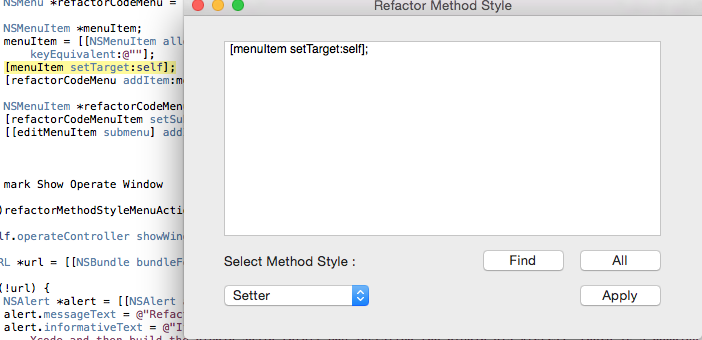
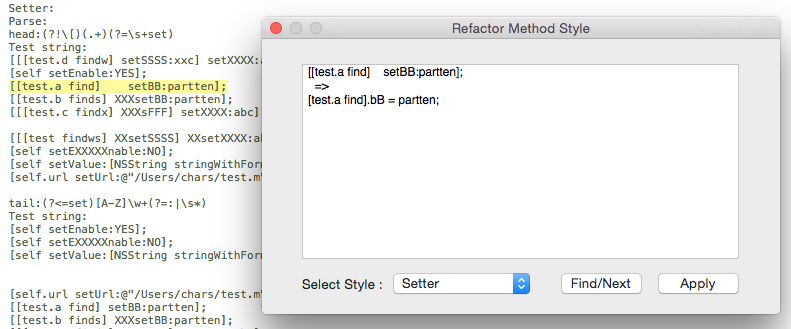
fix replace func

diff --git a/RefactorCodePlugin/Tool/DZOperateCharacter.m b/RefactorCodePlugin/Tool/DZOperateCharacter.m
@@ -64,7 +64,7 @@ NSUInteger currentIdx = 0;
         return NULL;
     }
     
-    NSRange verify = {0};
+    NSArray *verify = nil;
     NSTextCheckingResult *result = nil;
     do {
         result = [regular firstMatchInString:content options:0 range:NSMakeRange(currentIdx, content.length - currentIdx)];
@@ -76,11 +76,11 @@ NSUInteger currentIdx = 0;
         DZLog(@"%@ %@", NSStringFromRange(result.range), [content substringWithRange:result.range]);
         
         currentIdx = result.range.location + result.range.length;
-        verify = [[content substringWithRange:result.range] rangeOfString:@"forKey" options:NSCaseInsensitiveSearch];
+        verify = [self findAllSpecityStringWithContent:[content substringWithRange:result.range] pattern:@"(?<=for)(.+)(\\:)"];
         
         ret.resultString = [content substringWithRange:result.range];
         ret.resultRange = result.range;
-    } while (verify.length > 0);
+    } while (verify.count > 0);
     
     return ret;
 }
@@ -90,89 +90,18 @@ NSUInteger currentIdx = 0;
     currentIdx = 0;
 }
 
-//+ (DZResults *)createSetterMethodReplaceStringWithSpecityString:(NSString *)specity
-//{
-//    DZResults *ret = [[DZResults alloc] init];
-//    NSError *error = nil;
-//    
-//    NSString *headerPattern = [[NSString alloc] initWithFormat:@"%@", @"([^\\[])(.+)(?=\\s+set)"];
-//    //NSString *headerPattern = [[NSString alloc] initWithFormat:@"%@", @"(\\w+\\.{0,1}\\w+)(?=\\s+set)"];
-//    NSString *valuePattern =  [[NSString alloc] initWithFormat:@"%@", @"(?<=set)(\\w+)(?=:)"];
-//    //NSString *tailPattern = [[NSString alloc] initWithFormat:@"%@", @"(?<=\\:)(\\w+)"];
-//    NSString *tailPattern = [[NSString alloc] initWithFormat:@"%@", @"(?<=\\:)(.+)(?=\\])"];
-//    
-//    //According to the regular expression，set up Objective-C rules
-//    NSRegularExpression *headerRegular = [[NSRegularExpression alloc] initWithPattern:headerPattern options:NSRegularExpressionAllowCommentsAndWhitespace error:&error];
-//    if (error) {
-//        DZLog(@"create replace string header regular error:%@",error);
-//        error = nil;
-//    }
-//    NSTextCheckingResult *header = [headerRegular firstMatchInString:specity options:0 range:NSMakeRange(0, specity.length)];
-//    if (!header) {
-//        DZLog(@"createReplaceStringWithSpecityString Header Error!");
-//        return NULL;
-//    }
-//    
-//    NSRegularExpression *valueRegular = [[NSRegularExpression alloc] initWithPattern:valuePattern options:NSRegularExpressionAllowCommentsAndWhitespace error:&error];
-//    if (error) {
-//        DZLog(@"create replace string value regular error:%@",error);
-//        error = nil;
-//    }
-//    NSTextCheckingResult *value = [valueRegular firstMatchInString:specity options:0 range:NSMakeRange(0, specity.length)];
-//    if (!value) {
-//        DZLog(@"createReplaceStringWithSpecityString Header Error!");
-//        return NULL;
-//    }
-//    
-//    NSRegularExpression *tailRegular = [[NSRegularExpression alloc] initWithPattern:tailPattern options:NSRegularExpressionAllowCommentsAndWhitespace error:&error];
-//    if (error) {
-//        DZLog(@"create replace string tail regular error:%@",error);
-//    }
-//    NSTextCheckingResult *tail = [tailRegular firstMatchInString:specity options:0 range:NSMakeRange(0, specity.length)];
-//    if (!tail) {
-//        DZLog(@"createReplaceStringWithSpecityString Tail Error!");
-//        return NULL;
-//    }
-//       
-//    ret.resultString = [[NSString alloc] initWithFormat:@"%@.%@ = %@;", [specity substringWithRange:header.range], [[specity substringWithRange:value.range] lowercaseString], [specity substringWithRange:tail.range]];
-//    
-//    return ret;
-//}
-
 + (DZResults *)createSetterMethodReplaceStringWithSpecityString:(NSString *)specity
 {
     DZResults *ret = [[DZResults alloc] init];
     
-    NSString *header = [self createSetterMethodHeaderReplaceStringWithSpecityString:specity];
+    NSArray *header = [self createSetterMethodHeaderReplaceStringWithSpecityString:specity];
     NSString *value = [self createSetterMethodValueReplaceStringWithSpecityString:specity];
     NSString *tail = [self createSetterMethodTailReplaceStringWithSpecityString:specity];
+    NSString *change = [[NSString alloc] initWithFormat:@"%@%@", [[value substringToIndex:1] lowercaseString], [value substringWithRange:NSMakeRange(1, value.length - 1)]];
     
-    ret.resultString = [[NSString alloc] initWithFormat:@"%@.%@ = %@;", header, [value lowercaseString], tail];
+    ret.resultString = [[NSString alloc] initWithFormat:@"%@.%@ = %@;", (NSString *)[header lastObject], change, tail];
     
     return ret;
-}
-
-+ (NSString *)createSetterMethodHeaderReplaceStringWithSpecityString:(NSString *)specity
-{
-    NSError *error = nil;
-    NSString *headerPattern = [[NSString alloc] initWithFormat:@"%@", @"([^\\[])(.+)(?=\\s+set)"];
-    //NSString *headerPattern = [[NSString alloc] initWithFormat:@"%@", @"(\\w+\\.{0,1}\\w+)(?=\\s+set)"];
-    
-    //According to the regular expression，set up Objective-C rules
-    NSRegularExpression *headerRegular = [[NSRegularExpression alloc] initWithPattern:headerPattern options:NSRegularExpressionAllowCommentsAndWhitespace error:&error];
-    if (error) {
-        DZLog(@"create replace string header regular error:%@",error);
-        error = nil;
-    }
-    NSTextCheckingResult *header = [headerRegular firstMatchInString:specity options:0 range:NSMakeRange(0, specity.length)];
-    if (!header) {
-        DZLog(@"createSetterMethodHeaderReplaceStringWithSpecityString Header Error!");
-        return NULL;
-    }
-    
-    NSString *headerReplace = [[NSString alloc] initWithFormat:@"%@", [specity substringWithRange:header.range]];
-    
-    return headerReplace;
 }
 
 + (NSString *)createSetterMethodValueReplaceStringWithSpecityString:(NSString *)specity
@@ -184,7 +113,6 @@ NSUInteger currentIdx = 0;
     NSRegularExpression *valueRegular = [[NSRegularExpression alloc] initWithPattern:valuePattern options:NSRegularExpressionAllowCommentsAndWhitespace error:&error];
     if (error) {
         DZLog(@"create replace string value regular error:%@",error);
-        error = nil;
     }
     NSTextCheckingResult *value = [valueRegular firstMatchInString:specity options:0 range:NSMakeRange(0, specity.length)];
     if (!value) {
@@ -206,7 +134,6 @@ NSUInteger currentIdx = 0;
     NSRegularExpression *tailRegular = [[NSRegularExpression alloc] initWithPattern:tailPattern options:NSRegularExpressionAllowCommentsAndWhitespace error:&error];
     if (error) {
         DZLog(@"create replace string tail regular error:%@",error);
-        error = nil;
     }
     NSTextCheckingResult *tail = [tailRegular firstMatchInString:specity options:0 range:NSMakeRange(0, specity.length)];
     if (!tail) {
@@ -217,6 +144,50 @@ NSUInteger currentIdx = 0;
     NSString *tailReplace = [[NSString alloc] initWithFormat:@"%@", [specity substringWithRange:tail.range]];
     
     return tailReplace;
+}
+
++ (NSArray *)createSetterMethodHeaderReplaceStringWithSpecityString:(NSString *)src
+{
+    NSMutableArray *arrayM = [NSMutableArray array];
+    NSArray *brace = nil; //大括号
+    NSArray *bracket = nil; //中括号
+    NSArray *parenthesis = nil; //小括号
+    NSArray *setter = [self findAllSpecityStringWithContent:src pattern:@"\\s*set"];
+    
+    brace = [self findAllSpecityStringWithContent:src pattern:@"\\{"];
+    bracket = [self findAllSpecityStringWithContent:src pattern:@"\\["];
+    parenthesis = [self findAllSpecityStringWithContent:src pattern:@"\\("];
+    
+    for (DZResults *result in setter) {
+
+        NSString *currentSrc = [src substringWithRange:NSMakeRange(0, result.resultRange.location)];
+        if (bracket.count) {
+            NSArray *tmp = [self findAllSpecityStringWithContent:currentSrc pattern:@"\\]"];
+            NSUInteger i = 0;
+            if (tmp.count) {
+                i = bracket.count - tmp.count;
+            }
+            DZResults *currentResult = (DZResults *)bracket[i];
+            DZResults *currentFindResult = (DZResults *)[tmp lastObject];
+            NSUInteger start = currentResult.resultRange.location + currentResult.resultRange.length;
+            NSUInteger length = currentSrc.length - start;
+            if (currentFindResult) {
+                start = currentResult.resultRange.location;
+                length = currentFindResult.resultRange.location + currentFindResult.resultRange.length - start;
+            }
+            NSString *header = [currentSrc substringWithRange:NSMakeRange(start, length)];
+            [arrayM addObject:header];
+        } else if (parenthesis.count) {
+            
+        } else if (brace.count) {
+            
+        } else {
+            DZLog(@"Bracket Operate Error!");
+        }
+
+    }
+
+    return arrayM;
 }
 
 @end

diff --git a/RefactorCodePlugin/Controller/DZOperateController.m b/RefactorCodePlugin/Controller/DZOperateController.m
@@ -20,15 +20,16 @@ static NSString *DZNSDictionaryMethodFindRegexPattern = @"(.+)(?<=dictionary)\\w
  Parse:
  head:(?!\[)(.+)(?=\s+set)
  Test string:
+ [[[test.d findw] setSSSS:xxc] setXXXX:abce];
  [self setEnable:YES];
- [self setEXXXXXnable:NO];
- [self setValue:[NSString stringWithFormat:@"%@", @"ssssss"] forKey:@"ddd"];
- [self.url setUrl:@"/Users/chars/test.m"];
  [[test.a find]    setBB:partten];
  [[test.b finds] XXXsetBB:partten];
  [[[test.c findx] XXXsFFF] setXXXX:abc];
- [[[test.d findw] setSSSS] setXXXX:abce];
+ 
  [[[test findws] XXsetSSSS] XXsetXXXX:abcd];
+ [self setEXXXXXnable:NO];
+ [self setValue:[NSString stringWithFormat:@"%@", @"ssssss"] forKey:@"ddd"];
+ [self.url setUrl:@"/Users/chars/test.m"];
  
  tail:(?<=set)[A-Z]\w+(?=:|\s*)
  Test string:
@@ -41,7 +42,7 @@ static NSString *DZNSDictionaryMethodFindRegexPattern = @"(.+)(?<=dictionary)\\w
  [[test.a find] setBB:partten];
  [[test.b finds] XXXsetBB:partten];
  [[[test.c findx] XXXsFFF] setXXXX:abc];
- [[[test.d findw] setSSSS] setXXXX:abce];
+ [[[test.d findw] setSSSS:abx] setXXXX:abce];
  [[[test findws] XXsetSSSS] XXsetXXXX:abcd];
  [self setString:[NSString stringWithFormat:@"%@", @"ssssss"]]; 
  
@@ -128,29 +129,6 @@ static NSString *DZNSDictionaryMethodFindRegexPattern = @"(.+)(?<=dictionary)\\w
 {
     [[NSUserDefaults standardUserDefaults] setObject:sender.selectedItem.representedObject forKey:DZDefaultsKeyMethodStyle];
     [DZOperateCharacter zeroCurrentIdx];
-}
-
-#pragma mark All Button Action
-
-- (IBAction)allButtonAction:(NSButton *)sender
-{
-    NSString *selectedStyle = [[NSUserDefaults standardUserDefaults] stringForKey:DZDefaultsKeyMethodStyle];
-    NSString *pattern = [[NSString alloc] init];
-    
-    if ([selectedStyle isEqualToString:@"Setter"]) {
-        pattern = DZSetterMethodFindRegexPattern;
-    }else if ([selectedStyle isEqualToString:@"NSArray"]) {
-        pattern = DZNSArrayMethodFindRegexPattern;
-    }else if ([selectedStyle isEqualToString:@"NSDictionary"]) {
-        pattern = DZNSDictionaryMethodFindRegexPattern;
-    }else {
-        DZLog(@"allButtonAction Error!");
-    }
-    
-    if ([_delegate respondsToSelector:@selector(findAllSpecifyStringWithPattern:)]) {
-        [_delegate findAllSpecifyStringWithPattern:pattern];
-    }
-    DZLog(@"pattern : %@", pattern);
 }
 
 #pragma mark Apply Button Action
